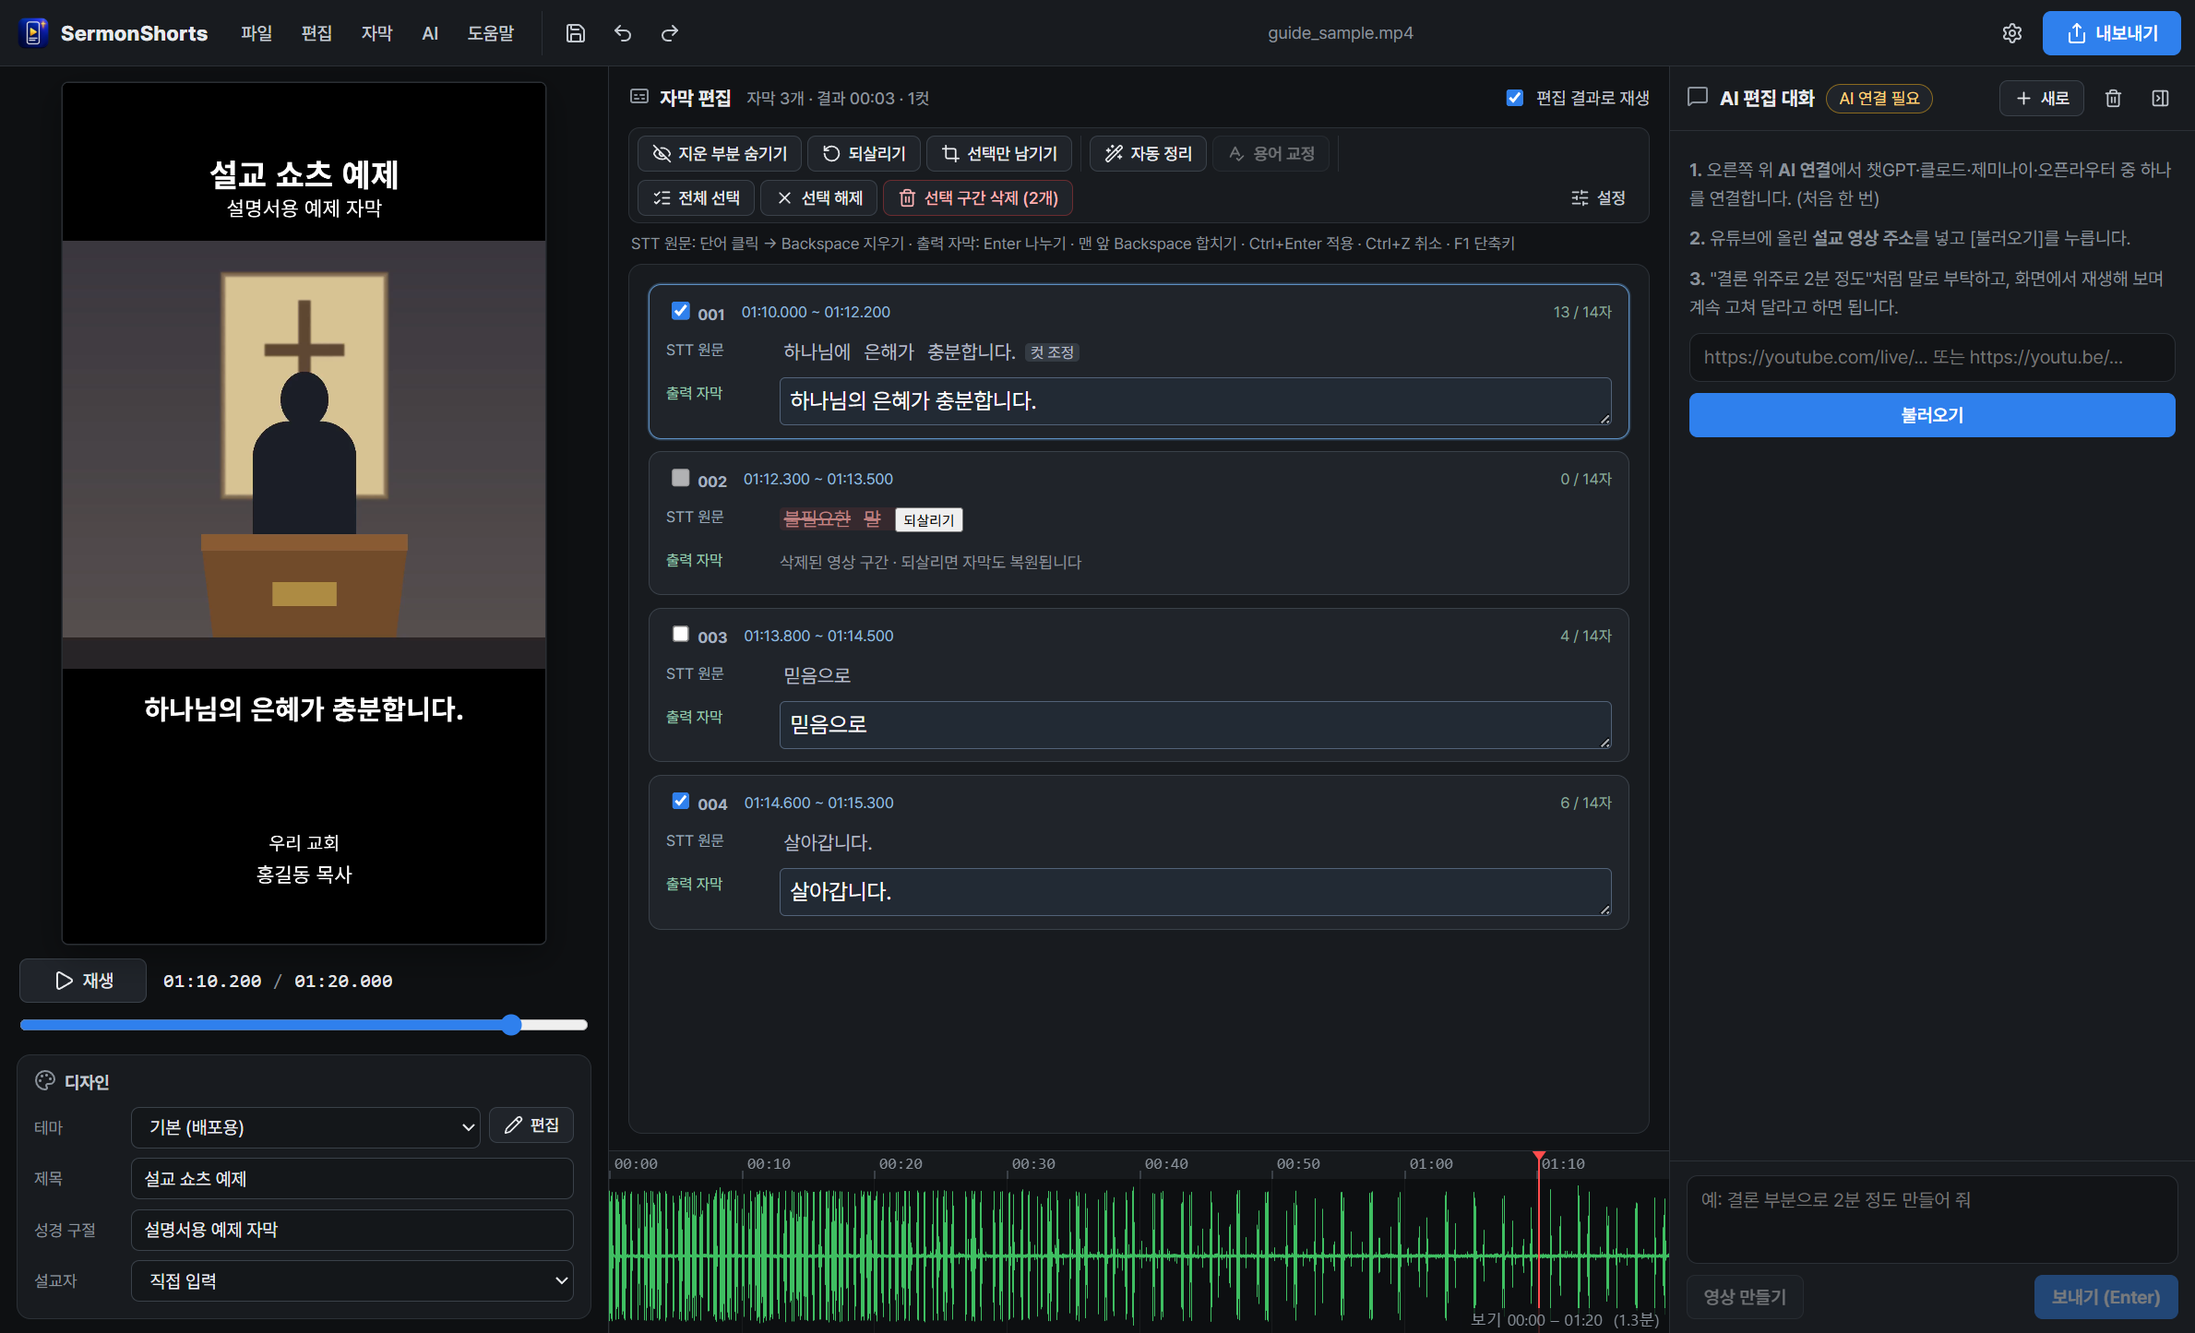
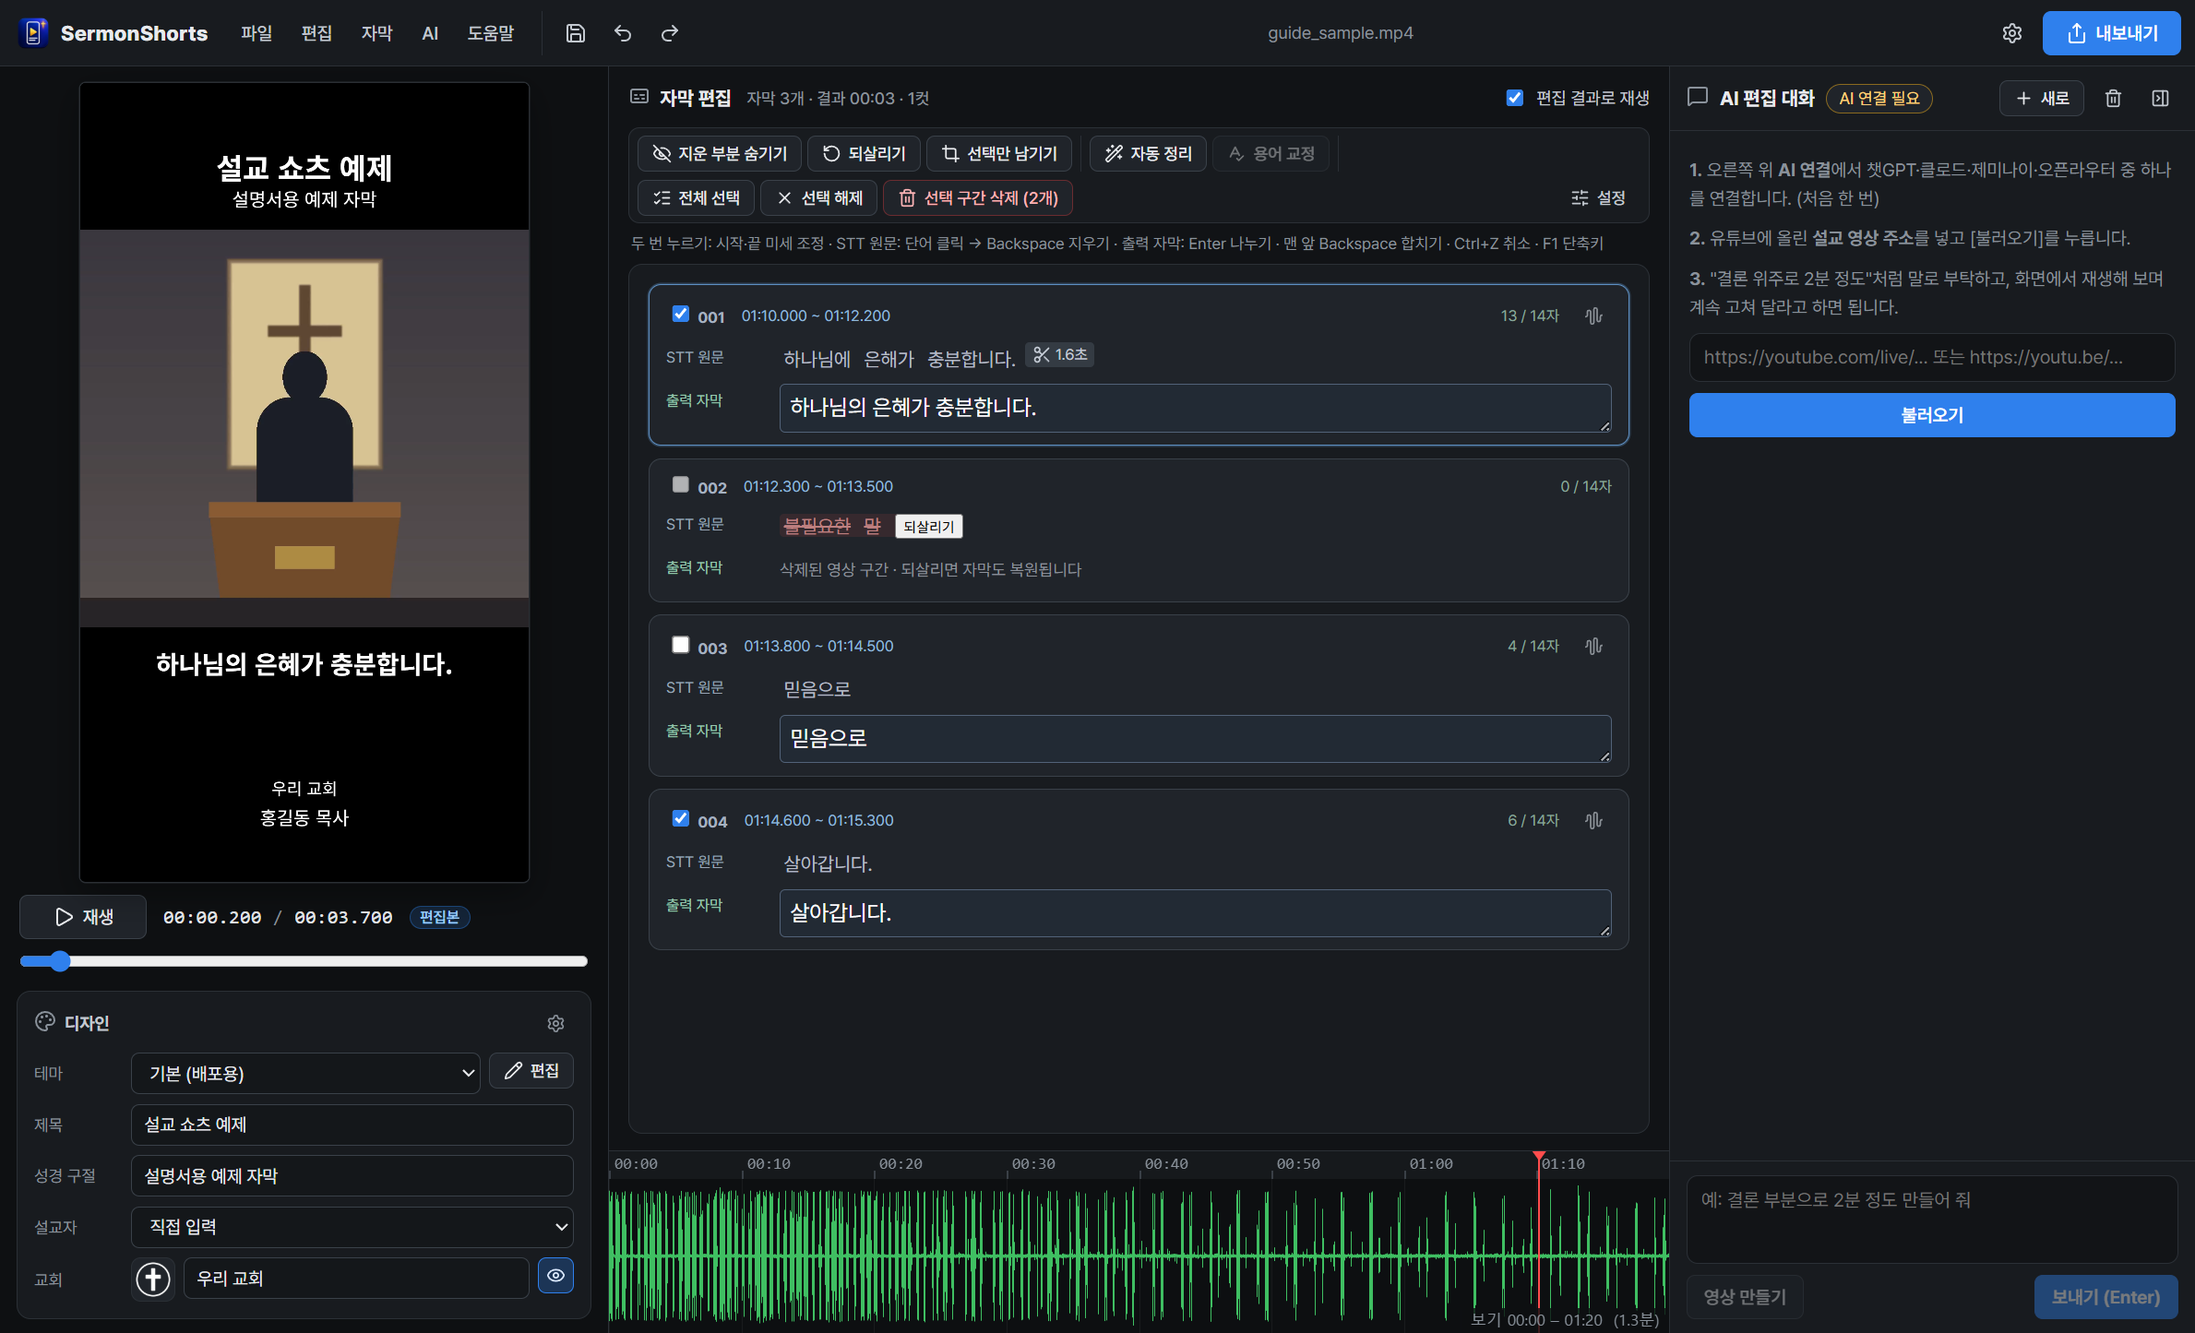
v0.3.14: 설명서·그림 갱신 (교회 정보·편집 결과 재생·의미 단위 자막·군말 표시·미세 조정)
- 사용 설명서·편집 방식·단축키 문서에 새 기능 설명, 미세 조정 패널 그림 추가 (합성 예제 영상)

diff --git a/src/renderer/guide-capture.js b/src/renderer/guide-capture.js
@@ -20,6 +20,7 @@ window.addEventListener('ss:run-test-script',async e=>{
    const boxes=Array.from(document.querySelectorAll('.caption-check')).filter(b=>!b.disabled);boxes[0].checked=true;boxes[0].dispatchEvent(new Event('change',{bubbles:true}));boxes.at(-1).checked=true;boxes.at(-1).dispatchEvent(new Event('change',{bubbles:true}));await shot('02-bulk-delete');document.getElementById('btnUncheckCaptions').click();
    let fields=Array.from(document.querySelectorAll('.caption-output'));fields[1].focus();fields[1].setSelectionRange(0,0);fields[1].dispatchEvent(new KeyboardEvent('keydown',{key:'Backspace',bubbles:true}));await shot('03-merge');SS.flushCaptionEdit(false);SS.undo();document.getElementById('transcriptBody').focus();
    const cuts=SS.getCuts();check('trim cut exists',cuts.length>0);await SS.openTrimPanel(cuts[0].a,cuts[0].b);await wait(400);await shot('04-trim');SS.closeTrim();
+   if(e.detail==='guide-capture'){const blk=document.querySelectorAll('.caption-block')[0];document.getElementById('transcriptBody').scrollTop=0;await SS.openFineTuneBlock(blk);await wait(400);check('fine tune opens',SS.getTrimState()&&SS.getTrimState().kind==='range');await shot('14-fine');SS.closeTrim();}
    const output=await SS.doExport(dir+'/example.mp4');check('real export succeeds',output.success);report.export=output;
    check('no credentials returned',!SS.appSettings.geminiApiKeyEnc&&!SS.appSettings.apiKey);
    if(launch.isPackaged){check('cache outside installed app',!launch.cache.toLowerCase().startsWith(launch.root.toLowerCase()));check('engine excluded and optional',!launch.engineReady);}

diff --git a/docs/USER_GUIDE.md b/docs/USER_GUIDE.md
@@ -141,19 +141,31 @@
 
 - 지운 덩어리의 **되살리기** 버튼: 해당 덩어리 복원
 - **R**: 커서 옆 또는 선택한 지운 부분 복원
+- **노란 [군말]**: 음·어·아처럼 군말이라 지운 곳. 누르면 되살립니다.
+- **노란 [공백 0.4초]**: 말 사이 공백을 잘라 낸 곳. 옆의 **되살리기**로 공백을 돌려놓습니다.
+- **점선 [쉼 0.8초]**: 남겨 둔 긴 쉼. 누르면 그 자리만 잘라 냅니다.
 - **Ctrl+Z**: 방금 작업 취소
 - **Ctrl+Shift+Z**: 다시 실행
 - **지운 부분 숨기기**: 남은 문장만 보기. 숨긴 표시를 누르면 다시 펼칩니다.
 
 ![출력 자막은 유지하면서 원문에서 컷을 관리합니다](images/11-caption-detail.png)
 
+### 음성 인식 뒤 군말·공백 자동 정리
+
+**자막 만들기**(음성 인식)가 끝나면 군말(음·어·아·에)과 0.3초 넘는 말 사이 공백을 실제 소리에서 찾아 바로 지웁니다. 지운 곳은 위 노란 표시로 남아 편집자가 한눈에 보고 되돌릴 수 있고, 자막 편집 머리줄에 `군말 3 · 공백 12곳 −4.2초`처럼 요약이 나옵니다. **Ctrl+Z** 한 번이면 정리 전체를 취소합니다. 끄려면 자막 편집 **설정 → 음성 인식 뒤 군말·말 사이 공백 자동으로 지우기**를 해제하세요. 나중에 다시 하려면 **자동 정리**(Ctrl+Shift+C)를 누릅니다.
+
 출력 입력칸 안에서 타이핑하는 동안에는 영상 삭제 단축키가 글자를 지우는 일반 키로 동작합니다. 영상 구간을 자를 때는 먼저 STT 원문 쪽을 클릭하세요. 글자가 아니라 **영상 컷**을 만드는 단계라는 점을 기억하면 실수를 줄일 수 있습니다.
 
 <!-- page -->
 
-## 8. 컷 경계를 정밀하게 다듬기
+## 8. 컷 경계와 자막 시작·끝을 정밀하게 다듬기
 
-단어를 지운 뒤 소리가 너무 급하게 끊기면 STT 원문의 **컷 조정**을 누르세요. 또는 원문 쪽에서 **T**로 가까운 컷을 엽니다.
+**STT 원문**이나 **출력 자막**을 **두 번 누르면**(또는 자막 머리줄의 파형 단추) 그 자막의 **시작·끝 미세 조정** 패널이 열립니다.
+
+![자막을 두 번 눌러 연 시작·끝 미세 조정 패널](images/14-fine.png)
+ 왼쪽은 시작, 오른쪽은 끝이며, 초록은 남는 소리, 빨강은 잘려 나가는 소리입니다. 이어서 말한 가운데 자막도 시작을 뒤로·끝을 앞으로 당기면 그 자리에 컷이 생기고, **원래대로**(R)를 누르면 컷이 없어집니다. **Space / 미리듣기**는 편집 결과대로 자막 앞뒤를 들려주고 저절로 멈춥니다. **[ / ]** 로 이전·다음 자막, **Enter**로 적용하고 들어 봅니다.
+
+단어를 지운 뒤 소리가 너무 급하게 끊기면 STT 원문의 가위 표시(잘라 낸 초)를 누르세요. 또는 원문 쪽에서 **T**로 가까운 컷을 엽니다.
 
 ![아래 파형에서 A 끝과 B 시작을 조절하는 트림 패널](images/04-trim.png)
 
@@ -176,7 +188,7 @@
 
 ### 교회 이름·로고·설교자
 
-**설정 → 교회 정보**에서 교회 이름, 로고 이미지, 설교자 목록과 기본 설교자를 정하고 **저장**합니다. 로고는 투명 배경 PNG를 권장합니다. 원본 비율을 유지해 표시합니다.
+왼쪽 **디자인** 카드에서 바로 고칩니다. **교회** 칸에 이름을 쓰면 미리보기에 곧바로 보이고 설정에도 저장됩니다. 왼쪽 로고 단추로 로고 이미지를 바꾸고, 오른쪽 눈 단추로 쇼츠에 교회 이름·로고를 보이거나 숨깁니다(기본 테마는 숨김, 이 프로젝트에만 적용). 설교자를 **직접 입력**했다면 옆의 **+** 로 목록에 저장합니다. 설교자 목록·기본 설교자·자주 쓰는 말은 카드 오른쪽 위 톱니(**설정 → 교회 정보**)에서 정합니다. 로고는 투명 배경 PNG를 권장합니다.
 
 ![우리 교회 정보 설정](images/06-church-settings.png)
 

diff --git a/docs/EDITING.md b/docs/EDITING.md
@@ -38,12 +38,16 @@
 - [지운 부분 숨기기] 토글(단축키 H): 켜면 지운 단어를 감추고 그 자리에 작은 가위 표시만 남긴다. 가위 표시를 클릭하면 숨긴 내용이 펼쳐진다.
 
 ## 그 밖의 편집
-- 더블클릭 또는 F2/E: 단어 글자 고치기(오타). Enter 확정, Esc 취소, Tab 다음 단어로 이어서 고치기.
+- STT 원문·출력 자막 두 번 누르기(또는 자막 머리줄 파형 단추): 그 자막의 시작·끝 미세 조정 패널. 이어진 말 가운데 자막도 안쪽으로 당기면 컷이 생기고(fineCut), 원래대로(R) 하면 없어진다.
+- F2/E: 단어 글자 고치기(오타). Enter 확정, Esc 취소, Tab 다음 단어로 이어서 고치기.
 - Enter: 커서 위치에서 자막 줄바꿈 켜기/끄기 (앞 단어의 br).
 - X: 커서 위치(커서 뒤 단어 앞)의 쉼 잘라내기 켜기/끄기 (cutBefore).
 - I / O: 커서 위치를 쇼츠 시작/끝으로.
 - Ctrl+K: 선택만 남기기.
-- 가위(컷) 표시 클릭 또는 T: 트림 패널.
+- 가위(컷) 표시 클릭 또는 T: 컷 미세 조정 패널. 가위 표시에는 잘라 낸 초가 보인다. 노란 [공백 0.4초]는 지운 단어 없이 말 사이 공백만 잘라 낸 곳(되살리기 단추), 노란 [군말]은 군말로 지운 단어, 점선 [쉼]은 남겨 둔 0.5초 넘는 쉼(누르면 자름).
+- 음성 인식 직후와 [자동 정리]: 군말(음·어·아·에, 늘어진 것 포함)을 지우고 실제 소리의 0.3초 넘는 무음을 말 끝 0.12초·다시 시작 앞 0.08초만 남기고 자른다. Ctrl+Z 한 번으로 전체 취소.
+- 재생: [편집 결과로 재생]이 켜져 있으면 지운 부분·잘라 낸 공백을 건너뛰고 마지막 구간에서 멈춘다. 시간 표시와 재생 막대는 편집 결과(쇼츠 길이) 기준이다. Shift+Space 는 그 한 번만 원본대로.
+- 재생 중 자막 목록을 직접 스크롤하면 따라가기를 멈추고 [재생 위치로] 단추를 보인다.
 - 글자 키(I, O, X, R, H, T, D, J, K, L)는 단어 고치기 입력 중에는 글자로 입력된다.
 
 ## 화면
@@ -54,6 +58,7 @@
 ## 자막 한 줄 최대 글자 수
 - 자막 창 위쪽 **자막 한 줄 최대**에 1~200자를 입력한다. 기본 14자이며 8·12·14·16·20자 프리셋을 제공한다.
 - 공백은 세지 않고 문장부호는 센다. 문장 끝·긴 쉼·수동 줄바꿈은 그대로 존중하며 단어 경계를 우선한다.
+- **의미 단위로 나누기**(기본 켬): 글자 수만 채워 끊지 않고 한 줄 최대 글자 안에서 끊기 좋은 자리를 고른다. 좋은 자리: 문장 끝(문장부호가 없어도 ~습니다·~요), 쉼표, 말 사이 쉼, 이음말(~고·~는데·~면서·~할 때), 은/는·이/가·을/를 같은 조사 뒤, '그리고·그래서' 앞. 나쁜 자리: '그·이런·모든' 뒤, '하나님의'처럼 ~의 뒤, '기도할·중요한·가는' 같은 꾸밈꼴 뒤, '수·것·때문' 앞, '있습니다·주세요' 같은 보조 용언 앞, 숫자와 단위 사이. 줄 길이가 고르도록 하면서 가장 좋은 조합을 고른다(src/shared/linebreak.js). 끄면 예전처럼 글자 수로 채운다.
 - **긴 단어도 나누기**를 켜면 한 단어가 제한을 넘을 때 표시 자막만 나눈다. 끄면 긴 단어 하나는 제한을 넘을 수 있다.
 - 긴 단어를 나눌 때 표시 시각은 해당 단어의 시간 안에서 글자 수에 비례해 배분한다. 음절별 재인식이 아니며 원본 단어·영상 컷은 바뀌지 않는다.
 - 변경은 미리보기·MP4·SRT에 함께 적용되고 프로젝트 저장/복원 및 Ctrl+Z/다시 실행에 반영된다. 이전 프로젝트는 기존의 긴 단어 유지 동작을 보존한다.

diff --git a/README.md b/README.md
@@ -80,13 +80,19 @@
 
 ![수동으로 합친 행](docs/images/03-merge.png)
 
-### 파형을 보며 1ms 단위 정밀 트림
-컷 경계가 어색하면 파형에서 앞뒤 손잡이를 끌거나 프레임·10ms·1ms 단위로 옮기고, 이음새를 반복해서 들어 봅니다.
+### 군말·공백을 찾아 지우고 보여 줌
+음성 인식이 끝나면 음·어·아 같은 군말과 말 사이 공백을 실제 소리에서 찾아 지우고, 지운 곳을 노란 표시로 보여 줍니다. 누르면 되살리고, `Ctrl+Z` 한 번이면 전체 취소.
 
-![A 끝과 B 시작을 조절하는 트림 패널](docs/images/04-trim.png)
+### 의미 단위 자막
+글자 수만 채워 끊지 않고 문장 끝·쉼·이음말에서 끊습니다. '하나님의', '할 수 있습니다'처럼 붙어 다니는 말은 한 줄에 둡니다.
+
+### 두 번 눌러 1ms 단위 미세 조정
+STT 원문이나 출력 자막을 두 번 누르면 그 자막의 시작·끝을 파형에서 끌거나 프레임·10ms·1ms 단위로 옮기고, 편집 결과대로 들어 봅니다. 컷 경계도 같은 패널에서 다듬습니다. 미리보기 재생은 지운 부분을 건너뛰어 완성될 쇼츠 그대로 들려줍니다.
+
+![자막을 두 번 눌러 연 시작·끝 미세 조정 패널](docs/images/14-fine.png)
 
 ### 우리 교회 테마
-교회 이름·로고·설교자 목록을 저장하고, 제목·성경 구절·영상·자막 위치와 글꼴·색을 테마로 만들어 둡니다. 기본 테마 11종이 들어 있습니다. 흐린 영상 배경, 두 줄 제목(줄마다 다른 색), `*강조*` 색, 말하는 단어를 따라가는 단어 강조 자막, 설교자 이름표, 둥근 영상 카드도 테마로 고를 수 있습니다.
+교회 이름·로고는 디자인 카드에서 바로 고치고(미리보기에 곧바로 반영), 설교자 목록을 저장하고, 제목·성경 구절·영상·자막 위치와 글꼴·색을 테마로 만들어 둡니다. 기본 테마 11종이 들어 있습니다. 흐린 영상 배경, 두 줄 제목(줄마다 다른 색), `*강조*` 색, 말하는 단어를 따라가는 단어 강조 자막, 설교자 이름표, 둥근 영상 카드도 테마로 고를 수 있습니다.
 
 ![테마 편집기](docs/images/05-theme-editor.png)
 
@@ -118,10 +124,12 @@
 
 | 키 | 동작 |
 |---|---|
-| `Space` | 재생 / 정지 |
+| `Space` | 편집 결과 재생 / 정지 (지운 부분 건너뜀) |
 | `Backspace` / `Delete` (원문 줄) | 커서 앞/뒤 단어와 그 영상 구간 삭제 |
 | `R` | 지운 부분 되살리기 |
-| `T` | 가까운 컷 정밀 트림 열기 |
+| 두 번 누르기 (STT 원문·출력 자막) | 그 자막의 시작·끝 미세 조정 |
+| `T` | 가까운 컷 미세 조정 |
+| `Ctrl+Shift+C` | 자동 정리 (군말·말 사이 공백) |
 | `Ctrl+Z` / `Ctrl+Shift+Z` | 실행 취소 / 다시 실행 |
 | `Ctrl+S` / `Ctrl+O` / `Ctrl+E` | 저장 / 프로젝트 열기 / 내보내기 |
 | `F1` | 전체 단축키 도움말 |

diff --git a/docs/SHORTCUTS.md b/docs/SHORTCUTS.md
@@ -34,15 +34,16 @@
 | | Ctrl+K | 선택만 남기기 |
 | | X | 커서 위치에서 끊기(사이 무음 잘라내기) 켜기/끄기 |
 | | Enter | 커서 위치에서 자막 줄바꿈 켜기/끄기 |
-| | E, F2, 더블클릭 | 단어 글자 고치기 (Enter 확정, Esc 취소, Tab 다음 단어) |
+| | E, F2 | 단어 글자 고치기 (Enter 확정, Esc 취소, Tab 다음 단어) |
+| | 두 번 누르기 (STT 원문·출력 자막) | 그 자막의 시작·끝 미세 조정 |
 | 출력 자막 칸 | Enter | 커서 자리에서 자막 나누기 (맨 끝이면 다음 자막으로) |
 | | 맨 앞에서 Backspace | 위 자막과 합치기 |
 | | Ctrl+Enter | 고친 내용 적용하고 칸 나가기 (Esc 는 이번 수정 취소) |
 | | Ctrl+Z / Ctrl+Shift+Z, Ctrl+Y | 실행 취소 / 다시 실행 |
-| | Ctrl+Shift+C | 자동 정리 (군말, 반복, 긴 쉼) |
+| | Ctrl+Shift+C | 자동 정리 (군말·되풀이한 말·말 사이 공백, 지운 곳은 노란 표시) |
 | | Ctrl+Shift+T | AI 용어 교정 |
 | 컷 | [ / ] | 이전 / 다음 컷으로 이동 |
-| | T | 가장 가까운 컷의 트림 패널 열기 |
+| | T | 가장 가까운 컷의 미세 조정 패널 열기 |
 | 파일 | Ctrl+S / Ctrl+Shift+S | 프로젝트 저장 / 다른 이름으로 저장 |
 | | Ctrl+O / Ctrl+Shift+O | 프로젝트 열기 / 영상 파일 열기 |
 | | Ctrl+U | 유튜브에서 가져오기 (주소 + 구간) |
@@ -51,19 +52,21 @@
 | | Ctrl+, | 설정 |
 | | F1, ? | 단축키 도움말 |
 
-## 트림 패널 (컷 정밀 조정)
+## 미세 조정 패널 (컷·자막 시작/끝)
+
+컷(가위 표시·T)은 왼쪽 = 앞 구간 끝, 오른쪽 = 뒤 구간 시작. 자막(두 번 누르기)은 왼쪽 = 자막 시작, 오른쪽 = 자막 끝. 패널이 열려 있으면 아래 키가 전역 키보다 먼저입니다.
 
 | 키 | 동작 |
 |---|---|
 | ← / → | 선택한 손잡이 1프레임 이동 |
 | Shift+← / → | 10ms 이동 |
 | Alt+← / → | 1ms 이동 |
-| Tab, 1 / 2 | 손잡이 전환, 1 = A 끝, 2 = B 시작 |
-| Space | 이음새 앞뒤 2초 반복 듣기 시작/정지 |
+| Tab, 1 / 2 | 손잡이 전환, 1 = 왼쪽, 2 = 오른쪽 |
+| Space | 컷: 이음새 앞뒤 2초 반복 듣기 · 자막: 편집 결과로 자막 앞뒤 듣기 (저절로 멈춤) |
 | S / Alt+S | 무음 지점 / 제로 크로싱에 붙이기 |
-| R | 자동값으로 되돌리기 |
-| [ / ] | 이전 / 다음 컷 |
-| Enter | 패널 닫고 이음새 1초 앞부터 재생 |
+| R | 자동값으로 되돌리기 (자막 가운데에 만든 컷은 없어짐) |
+| [ / ] | 이전 / 다음 컷 · 자막 |
+| Enter | 패널 닫고 들어 보기 |
 | Esc | 패널 닫기 |
 
 ## 단축키 변경
